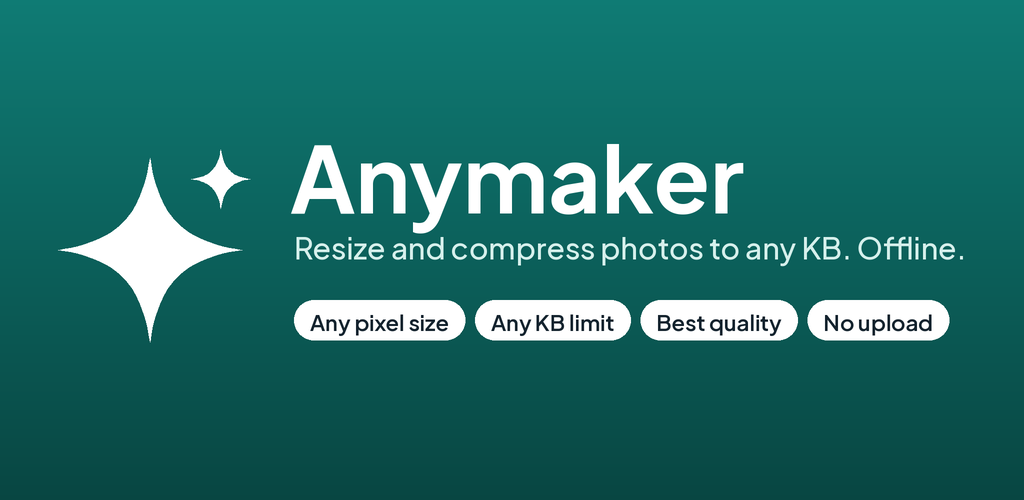
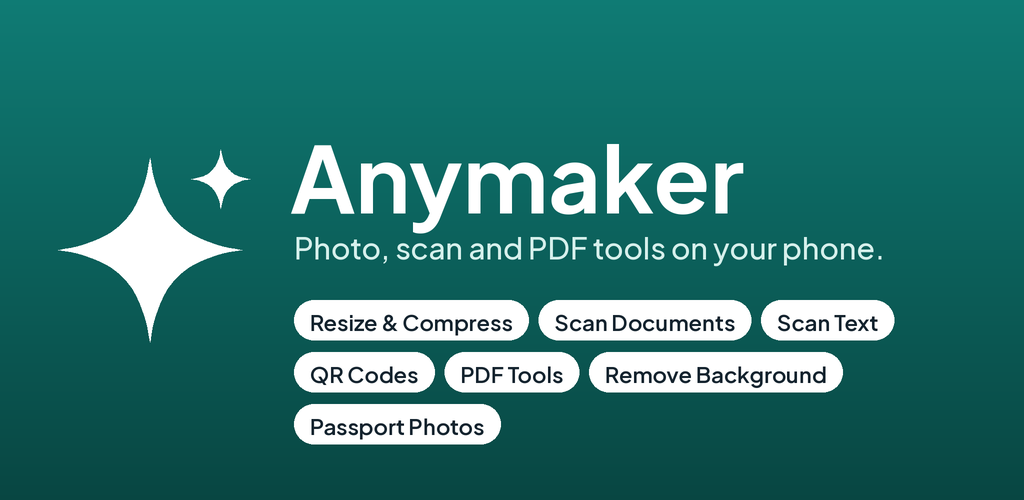
Anymaker 1.0.0: store listing, graphics and privacy policy for all tools
Claude-Session: https://claude.ai/code/session_01FVmcm4FUHT54rnnhSGHfve

Changed region(s): [[0.2812, 0.6, 0.9375, 0.9], [0.2812, 0.45, 0.9375, 0.54]]

diff --git a/anymaker-android/tools/make_store_assets.py b/anymaker-android/tools/make_store_assets.py
@@ -29,8 +29,8 @@ TEAL_DEEP = (8, 70, 66)
 INK = (20, 35, 46)
 WHITE = (255, 255, 255)
 # Only features that ship in the current release: Play rejects listings that promise more.
-TAGLINE = "Resize and compress photos to any KB. Offline."
-CHIPS = ["Any pixel size", "Any KB limit", "Best quality", "No upload"]
+TAGLINE = "Photo, scan and PDF tools on your phone."
+CHIPS = ["Resize & Compress", "Scan Documents", "Scan Text", "QR Codes", "PDF Tools", "Remove Background", "Passport Photos"]
 SS = 4  # supersampling factor for smooth curves
 
 

diff --git a/anymaker-android/PLAY_STORE.md b/anymaker-android/PLAY_STORE.md
@@ -1,4 +1,4 @@
-# Google Play release checklist: Anymaker 0.1.0
+# Google Play release checklist: Anymaker 1.0.0
 
 ## Files
 | What | Where |
@@ -13,35 +13,46 @@
 
 Regenerate the graphics with `python3 tools/make_store_assets.py` (needs Pillow).
 
-## Store listing (this version only ships Resize & Compress)
-List only what the build does. Add PDF, scan and other features to the title and description when those versions ship.
+## Store listing
 
-**App name (≤30):** `Anymaker: Photo Resizer & KB`
+**App name (≤30):** `Anymaker: PDF, Photo & Scan`
 
 **Short description (≤80):**
-`Resize photos to any pixel size and compress under any KB with the best quality.`
+`Resize photos to any KB, scan documents and text, edit PDFs, make QR codes.`
 
 **Full description:**
 ```
-Anymaker resizes any photo to the exact pixels you need and compresses it under your KB limit, keeping the highest quality that fits.
+Anymaker puts the photo, scan and PDF tools you need for forms, work and school in one app. Everything runs on your phone.
 
-• Any size: 1000×1000, 600×600 passport, 300×80 signature, or your own
-• Any limit: 100 KB, 50 KB, 20 KB, whatever the form or website asks for
-• Best quality: finds the highest quality that fits under your limit and shows a quality grade
-• Never reduce pixels: keep the exact resolution you asked for
-• Lock settings: set once and every photo you choose or share converts automatically
-• JPG or WEBP
-• Save to your gallery or share to any app
-• Light and dark mode
-• Works offline. No account, no upload, no permissions.
+PHOTO
+• Resize & Compress: any pixel size, any KB limit, the best quality that fits
+• Batch: convert up to 100 photos at once with the same settings
+• Crop & Rotate: free or fixed shapes (1:1, 4:3, 16:9…), rotate and flip
+• Convert: JPG, PNG and WEBP; opens HEIC photos
+• Remove Background: transparent PNG or a new color
+• Passport Photo: common sizes (US 2×2 in, UK/EU/Schengen 35×45 mm, Canada, China and more) with a white or blue background and a 4×6 in print sheet
 
-Perfect for job and university applications, visa and passport forms, and any website with an upload limit.
+SCAN
+• Scan Document: automatic edges, many pages into one PDF
+• Scan Text: copy text from photos (Latin, Devanagari, Chinese, Japanese, Korean)
+• Scan QR: QR codes and barcodes from the camera or a photo; see the full link before opening
+• Create QR: links, text, Wi-Fi, phone and email
+• Signature: draw it or clean up a photo of your signature into a transparent PNG
+
+PDF
+• Images to PDF: A4, Letter or photo size
+• Edit PDF: add text, highlights, whiteout and images such as your signature
+• Merge, Split and Compress PDF
+• Lock PDF: add or remove a password
+
+Files tab: everything you make in one place, ready to save or share.
+No account. No ads. Your files are never uploaded.
 ```
 
-**Category:** Photography · **Tags:** photo resizer, image compressor, KB
+**Category:** Productivity · **Tags:** PDF, scanner, photo resizer
 
 ## Play Console answers
-- **Data safety:** No data collected. No data shared.
+- **Data safety:** The app itself collects and shares no data. Google Play services (ML Kit) may collect diagnostics; follow Google's ML Kit Data safety guidance (https://developers.google.com/ml-kit/android-data-disclosure) when filling the form.
 - **Ads:** No, this app does not contain ads.
 - **Content rating:** complete the questionnaire; no objectionable content (Everyone / PEGI 3).
 - **Target audience:** 18+ (keeps the app outside the Families policy).

diff --git a/anymaker-android/PRIVACY.md b/anymaker-android/PRIVACY.md
@@ -2,23 +2,28 @@
 
 Last updated: 3 October 2026
 
-Anymaker resizes and compresses photos on your phone.
+Anymaker is a set of photo, scan and PDF tools that work on your phone.
 
-## What the app does with your photos
-- Photos you choose or share to Anymaker are copied into the app's private storage only to convert them.
-- Converting happens entirely on your device. Photos are never uploaded to any server.
-- Results are saved only where you choose: the gallery folder `Pictures/Anymaker`, a file you create, or an app you share to.
-- The app keeps its last 10 results and last 3 source photos in private cache storage so sharing keeps working; Android may clear this cache at any time, and uninstalling the app removes it.
+## Your files stay on your phone
+- Photos and PDFs you choose or share to Anymaker are copied into the app's private storage only to process them.
+- All processing happens on your device: resizing, cropping, converting, PDF editing, merging, splitting, compressing and password protection. Your files are never uploaded by Anymaker.
+- Results are saved only where you choose: `Pictures/Anymaker` or `Download/Anymaker`, a file you create, or an app you share to. Made files are also listed on the Files tab until you delete them there or uninstall the app.
 
-## Data collection
-- Anymaker collects no personal data, has no accounts, and contains no analytics or advertising SDKs in this version.
-- The app requests no runtime permissions. It does not access your contacts, location, camera or microphone.
+## Google Play services features
+Document scanning, text recognition, QR and barcode scanning, and background removal use Google ML Kit through Google Play services. These run on your device; your photos are not sent to Google for recognition. Google Play services downloads the needed models and may send diagnostic and usage information to Google as described in the ML Kit terms (https://developers.google.com/ml-kit/terms) and Google's privacy policy (https://policies.google.com/privacy).
+
+## What Anymaker does not do
+- No accounts, no analytics, no advertising in this version.
+- No camera, location, contacts, microphone or storage permission. Camera scanning runs in Google's scanner screen or your camera app, which return only the pictures you take.
+
+## Passwords
+Passwords you type in Lock PDF are used only to encrypt or open that PDF and are not stored.
 
 ## Children
 Anymaker is not directed at children under 13.
 
 ## Changes
-If a future version adds advertising or other features that process data, this policy and the Play Store Data safety section will be updated before that version is released.
+If a future version adds advertising or features that collect data, this policy and the Play Store Data safety section will be updated before that version is released.
 
 ## Contact
-Questions: open an issue at the project's repository or use the developer contact address on the Google Play listing.
+Use the developer contact address on the Google Play listing.

diff --git a/anymaker-android/README.md b/anymaker-android/README.md
@@ -1,12 +1,13 @@
 # Anymaker (Android)
 
-Photo, scan and PDF tools that work offline. Version 0.1.0 ships the foundation and **Resize & Compress**:
-any pixel size, any KB limit, the highest quality that fits, lock settings, save and share.
+Photo, scan and PDF tools on the phone. Version 1.0.0 ships 17 tools:
+Resize & Compress, Batch, Crop & Rotate, Convert, Remove Background, Passport Photo, Scan Document,
+Scan Text, Scan QR, Create QR, Signature, Images to PDF, Edit PDF, Merge PDF, Split PDF, Compress PDF and Lock PDF.
 The design and the roadmap for the other tools are in `../docs/superpowers/specs/2026-10-03-photo-shrink-2-design.md`.
 
 - Kotlin, Jetpack Compose, Material 3; minSdk 24, targetSdk 36
 - Package `com.vx.anymaker`
-- No permissions, no network, no analytics
+- No runtime permissions, no analytics, no ads; ML features run on device through Google Play services
 
 ## Build
 CI builds everything: push to GitHub and download the artifacts from the **Anymaker Android** workflow run.
